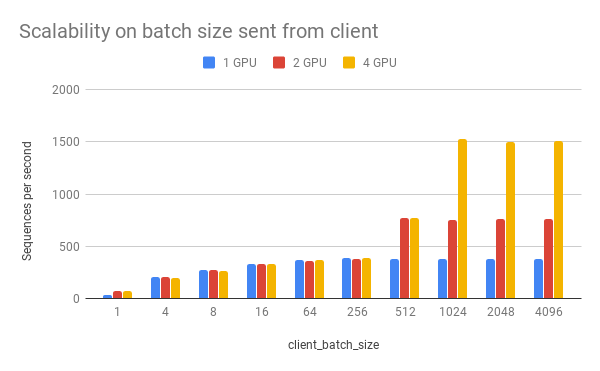
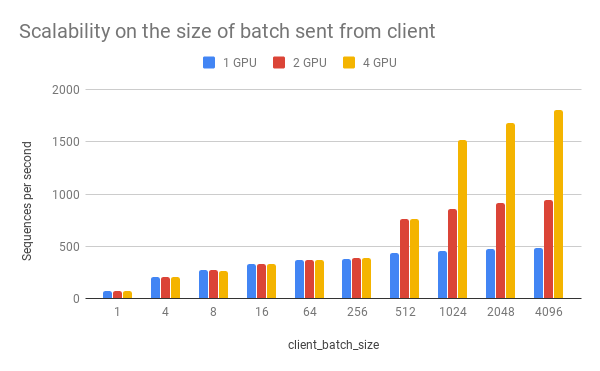
update benchmark and figure

diff --git a/README.md b/README.md
@@ -30,13 +30,13 @@ Author: Han Xiao [https://hanxiao.github.io](https://hanxiao.github.io)
 
 - :telescope: **State-of-the-art**: build on pretrained 12/24-layer BERT models released by Google AI, which is considered as a milestone in the NLP community.
 - :hatching_chick: **Easy-to-use**: require only two lines of code to get sentence encodes.
-- :zap: **Fast**: 780 sentences/s on a single Tesla M40 24GB when `max_seq_len=20`. See [benchmark](#Benchmark).
+- :zap: **Fast**: 900 sentences/s on a single Tesla M40 24GB with `max_seq_len=20`. See [benchmark](#Benchmark).
 - :octopus: **Scalable**: scale nicely and smoothly on multiple GPUs and multiple clients without worrying about concurrency. See [benchmark](#speed-wrt-num_client).
 
 ## Requirements
 
 - Python >= 3.5 (Python 2 is NOT supported!)
-- Tensorflow >= 1.10
+- Tensorflow >= 1.10 (one-point-ten)
 
 These two requirements MUST be satisfied. For other dependent packages, please refer to `requirements.txt`  and `requirements.client.txt`.
 
@@ -224,7 +224,7 @@ python app.py -pooling_layer -4 -3 -2 -1 -model_dir /tmp/english_L-12_H-768_A-12
 
 ##### **Q:** How about the speed? Is it fast enough for production?
 
-**A:** It highly depends on the `max_seq_len` and the size of a request. On a single Tesla M40 24GB with `max_seq_len=40`, you should get about 780 samples per second using a 12-layer BERT. In general, I'd suggest smaller `max_seq_len` (25) and larger request size (512/1024).
+**A:** It highly depends on the `max_seq_len` and the size of a request. On a single Tesla M40 24GB with `max_seq_len=40`, you should get about 470 samples per second using a 12-layer BERT. In general, I'd suggest smaller `max_seq_len` (25) and larger request size (512/1024).
 
 ##### **Q:** Did you benchmark the efficiency?
 
@@ -395,14 +395,13 @@ Performance-wise, longer sequences means slower speed and  more chance of OOM, a
 
 <img src=".github/max_seq_len.png" width="600">
 
-| max_seq_len | 1 GPU | 2 GPU | 4 GPU |
-|-------------|-------|-------|-------|
-| 20          | 787   | 1551  | 3026  |
-| 40          | 381   | 760   | 1502  |
-| 80          | 156   | 313   | 621   |
-| 160         | 112   | 224   | 448   |
-| 320         | 51    | 102   | 205   |
-
+| `max_seq_len` | 1 GPU | 2 GPU | 4 GPU |
+|---------------|-------|-------|-------|
+| 20            | 903   | 1774  | 3254  |
+| 40            | 473   | 919   | 1687  |
+| 80            | 231   | 435   | 768   |
+| 160           | 119   | 237   | 464   |
+| 320           | 54    | 108   | 212   |
 
 #### Speed wrt. `client_batch_size`
 
@@ -429,18 +428,18 @@ It's even worse if you put `BertClient()` inside the loop. Don't do that.
 
 <img src=".github/client_batch_size.png" width="600">
 
-| client_batch_size | 1 GPU | 2 GPU | 4 GPU |
-|-------------------|-------|-------|-------|
-| 1                 | 33    | 74    | 73    |
-| 4                 | 207   | 203   | 199   |
-| 8                 | 275   | 275   | 267   |
-| 16                | 334   | 333   | 330   |
-| 64                | 365   | 363   | 366   |
-| 256               | 383   | 382   | 383   |
-| 512               | 377   | 768   | 767   |
-| 1024              | 378   | 753   | 1525  |
-| 2048              | 380   | 758   | 1495  |
-| 4096              | 381   | 762   | 1511  |
+| `client_batch_size` | 1 GPU | 2 GPU | 4 GPU |
+|---------------------|-------|-------|-------|
+| 1                   | 75    | 74    | 72    |
+| 4                   | 206   | 205   | 201   |
+| 8                   | 274   | 270   | 267   |
+| 16                  | 332   | 329   | 330   |
+| 64                  | 365   | 365   | 365   |
+| 256                 | 382   | 383   | 383   |
+| 512                 | 432   | 766   | 762   |
+| 1024                | 459   | 862   | 1517  |
+| 2048                | 473   | 917   | 1681  |
+| 4096                | 481   | 943   | 1809  |
 
 
 
@@ -449,14 +448,14 @@ It's even worse if you put `BertClient()` inside the loop. Don't do that.
 
 <img src=".github/num_clients.png" width="600">
 
-| num_client | 1 GPU | 2 GPU | 4 GPU |
-|------------|-------|-------|-------|
-| 1          | 381   | 758   | 1522  |
-| 2          | 201   | 402   | 802   |
-| 4          | 103   | 207   | 413   |
-| 8          | 52    | 105   | 210   |
-| 16         | 26    | 53    | 105   |
-| 32         | 13    | 26    | 53    |
+| `num_client` | 1 GPU | 2 GPU | 4 GPU |
+|--------------|-------|-------|-------|
+| 1            | 473   | 919   | 1759  |
+| 2            | 261   | 512   | 1028  |
+| 4            | 133   | 267   | 533   |
+| 8            | 67    | 136   | 270   |
+| 16           | 34    | 68    | 136   |
+| 32           | 17    | 34    | 68    |
 
 As one can observe, 1 clients 1 GPU = 381 seqs/s, 2 clients 2 GPU 402 seqs/s, 4 clients 4 GPU 413 seqs/s. This shows the efficiency of our parallel pipeline and job scheduling, as the service can leverage the GPU time  more exhaustively as concurrent requests increase.
 
@@ -467,13 +466,13 @@ As one can observe, 1 clients 1 GPU = 381 seqs/s, 2 clients 2 GPU 402 seqs/s, 4 
 
 <img src=".github/max_batch_size.png" width="600">
 
-| max_batch_size | 1 GPU | 2 GPU | 4 GPU |
-|----------------|-------|-------|-------|
-| 32             | 357   | 717   | 1409  |
-| 64             | 364   | 733   | 1460  |
-| 128            | 378   | 759   | 1512  |
-| 256            | 381   | 758   | 1497  |
-| 512            | 381   | 762   | 1500  |
+| `max_batch_size` | 1 GPU | 2 GPU | 4 GPU |
+|------------------|-------|-------|-------|
+| 32               | 450   | 887   | 1726  |
+| 64               | 459   | 897   | 1759  |
+| 128              | 473   | 931   | 1816  |
+| 256              | 473   | 919   | 1688  |
+| 512              | 464   | 866   | 1483  |
 
 
 #### Speed wrt. `pooling_layer`
@@ -482,20 +481,20 @@ As one can observe, 1 clients 1 GPU = 381 seqs/s, 2 clients 2 GPU 402 seqs/s, 4 
 
 <img src=".github/pooling_layer.png" width="600">
 
-| pooling_layer | 1 GPU | 2 GPU | 4 GPU |
-|---------------|-------|-------|-------|
-| -1 | 317 | 710 | 1422 |
-| -2 | 382 | 760 | 1516 |
-| -3 | 411 | 812 | 1632 |
-| -4 | 444 | 879 | 1762 |
-| -5 | 483 | 959 | 1913 |
-| -6 | 529 | 1050 | 2100 |
-| -7 | 585 | 1163 | 2320 |
-| -8 | 655 | 1292 | 2583 |
-| -9 | 744 | 1470 | 2928 |
-| -10 | 858 | 1687 | 3371 |
-| -11 | 1016 | 1994 | 4018 |
-| -12 | 1227 | 2432 | 4840 |
+| `pooling_layer` | 1 GPU | 2 GPU | 4 GPU |
+|-----------------|-------|-------|-------|
+| [-1]            | 438   | 844   | 1568  |
+| [-2]            | 475   | 916   | 1686  |
+| [-3]            | 516   | 995   | 1823  |
+| [-4]            | 569   | 1076  | 1986  |
+| [-5]            | 633   | 1193  | 2184  |
+| [-6]            | 711   | 1340  | 2430  |
+| [-7]            | 820   | 1528  | 2729  |
+| [-8]            | 945   | 1772  | 3104  |
+| [-9]            | 1128  | 2047  | 3622  |
+| [-10]           | 1392  | 2542  | 4241  |
+| [-11]           | 1523  | 2737  | 4752  |
+| [-12]           | 1568  | 2985  | 5303  |
 
 
 ## Advance Usage
